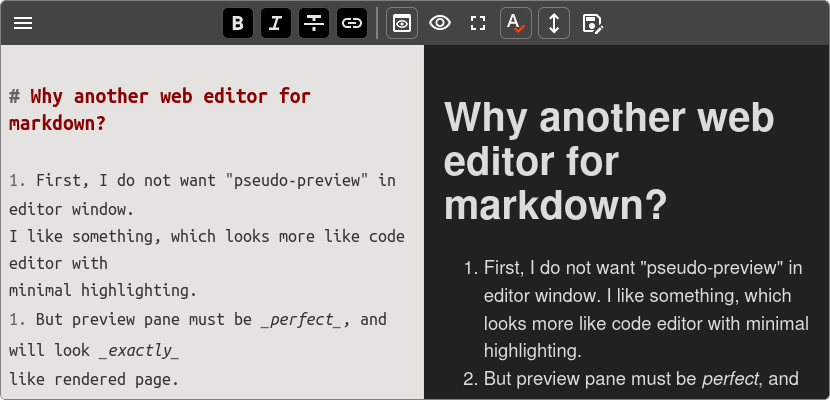
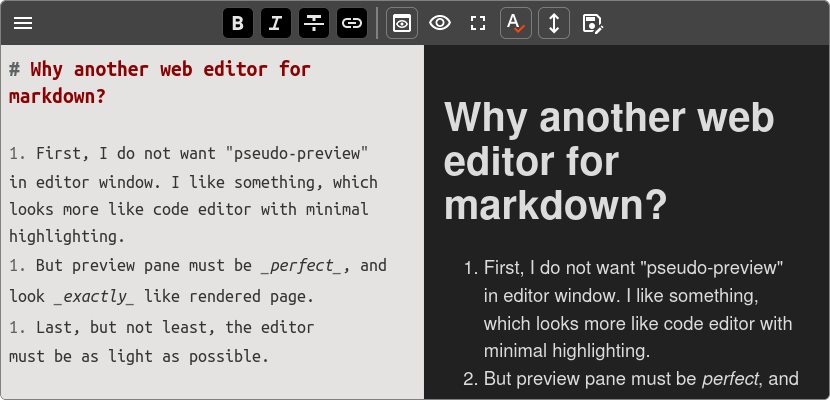
better demo and readme

diff --git a/docs/demo.js b/docs/demo.js
@@ -115,8 +115,6 @@
         customClass=${this.props.modified?"alerted":""}
         />
 
-
-
         </div>
 
          <div class="workArea">
@@ -134,7 +132,7 @@
    <${ae}  
    render=${n} 
    save=${r}
-   content=${'\n# Why another web editor for markdown?\n\n1. First, I do not want "pseudo-preview" in editor window. \nI like something, which looks more like code editor with\nminimal highlighting.\n1. But preview pane must be _perfect_, and will look _exactly_\nlike rendered page.\n1. Last, but not least, the editor must be as light as possible.\n\nThat\'s why.\n\n\nLorem Ipsum\n-----------\n\nLorem ipsum __dolor sit__ amet, consectetur adipiscing elit, sed do eiusmod tempor incididunt ut labore et dolore magna aliqua. Ut enim ad minim veniam, quis nostrud exercitation ullamco laboris nisi ut aliquip ex ea _commodo_ consequat.\n\n> Ut enim ad minim veniam, quis nostrud exercitation\n\nDuis aute irure dolor in reprehenderit in voluptate velit esse cillum dolore eu fugiat nulla pariatur. Excepteur sint occaecat cupidatat non proident, sunt in culpa qui officia [deserunt mollit](https://github.com) anim id est laborum.\n\n---\n'}  
+   content=${'# Why another web editor for markdown?\n\n1. First, I do not want "pseudo-preview"  \nin editor window. I like something, which \nlooks more like code editor with minimal \nhighlighting.\n1. But preview pane must be _perfect_, and \nlook _exactly_ like rendered page.\n1. Last, but not least, the editor \nmust be as light as possible.\n\nThat\'s why.\n\n\nLorem Ipsum\n-----------\n\nLorem ipsum __dolor sit__ amet, consectetur adipiscing elit, sed do eiusmod tempor incididunt ut labore et dolore magna aliqua. Ut enim ad minim veniam, quis nostrud exercitation ullamco laboris nisi ut aliquip ex ea _commodo_ consequat.\n\n> Ut enim ad minim veniam, quis nostrud exercitation\n\nDuis aute irure dolor in reprehenderit in voluptate velit esse cillum dolore eu fugiat nulla pariatur. Excepteur sint occaecat cupidatat non proident, sunt in culpa qui officia [deserunt mollit](https://github.com) anim id est laborum.\n\n---\n'}  
    modified=${e}
    onUpdate=${o}
    menuItems=${qe}/>

diff --git a/docs/index.html b/docs/index.html
@@ -91,18 +91,21 @@ width: calc( 100% + 200px);
 <main class='container'><a href="https://github.com/girobusan/bare-mde">
   <img style="position: absolute; top: 0; right: 0; border: 0;" src="https://github.blog/wp-content/uploads/2008/12/forkme_right_orange_ff7600.png?resize=149%2C149" alt="Fork me on GitHub">
     </a>
+<p>⬆ <a href="https://girobusan.github.io">Girobusan</a></p>
 <h1>🐻 Bare  MDE Demo</h1>
-<p>This is a demo for Bare MDE Preact component.</p>
+<p>Bare MDE is simplistic markdown editor. It has full HTML preview, and markdown syntax highlighting. It developed as Preact component and script, which can be added to any web page.</p>
 <div id="editorTest" style="max-height: 400px"> </div></main>
 <footer id="pageFooter"><small>Powered by <a href='https://github.com/girobusan/imp'>IMP!</a> and <a href='https://matejlatin.github.io/Gutenberg/'>Gutenberg CSS</a></small></footer>
 <script id="pageData" type="text/markdown">&lt;a href="https://github.com/girobusan/bare-mde"&gt;
   &lt;img style="position: absolute; top: 0; right: 0; border: 0;" src="https://github.blog/wp-content/uploads/2008/12/forkme_right_orange_ff7600.png?resize=149%2C149" alt="Fork me on GitHub"&gt;
     &lt;/a&gt;
+		
+:arrow_up: [Girobusan](https://girobusan.github.io)
 
 :bear: Bare  MDE Demo
 ===================
 
-This is a demo for Bare MDE Preact component.
+Bare MDE is simplistic markdown editor. It has full HTML preview, and markdown syntax highlighting. It developed as Preact component and script, which can be added to any web page.
 
 &lt;div id="editorTest" style="max-height: 400px"&gt; &lt;/div&gt;</script>
 </body>

diff --git a/src/demo_html/index.html b/src/demo_html/index.html
@@ -91,18 +91,21 @@ width: calc( 100% + 200px);
 <main class='container'><a href="https://github.com/girobusan/bare-mde">
   <img style="position: absolute; top: 0; right: 0; border: 0;" src="https://github.blog/wp-content/uploads/2008/12/forkme_right_orange_ff7600.png?resize=149%2C149" alt="Fork me on GitHub">
     </a>
+<p>⬆ <a href="https://girobusan.github.io">Girobusan</a></p>
 <h1>🐻 Bare  MDE Demo</h1>
-<p>This is a demo for Bare MDE Preact component.</p>
+<p>Bare MDE is simplistic markdown editor. It has full HTML preview, and markdown syntax highlighting. It developed as Preact component and script, which can be added to any web page.</p>
 <div id="editorTest" style="max-height: 400px"> </div></main>
 <footer id="pageFooter"><small>Powered by <a href='https://github.com/girobusan/imp'>IMP!</a> and <a href='https://matejlatin.github.io/Gutenberg/'>Gutenberg CSS</a></small></footer>
 <script id="pageData" type="text/markdown">&lt;a href="https://github.com/girobusan/bare-mde"&gt;
   &lt;img style="position: absolute; top: 0; right: 0; border: 0;" src="https://github.blog/wp-content/uploads/2008/12/forkme_right_orange_ff7600.png?resize=149%2C149" alt="Fork me on GitHub"&gt;
     &lt;/a&gt;
+		
+:arrow_up: [Girobusan](https://girobusan.github.io)
 
 :bear: Bare  MDE Demo
 ===================
 
-This is a demo for Bare MDE Preact component.
+Bare MDE is simplistic markdown editor. It has full HTML preview, and markdown syntax highlighting. It developed as Preact component and script, which can be added to any web page.
 
 &lt;div id="editorTest" style="max-height: 400px"&gt; &lt;/div&gt;</script>
 </body>

diff --git a/src/components/BareMDE/index.js b/src/components/BareMDE/index.js
@@ -233,7 +233,6 @@ export default class BareMDE extends Component{
        return;
      }
      this.setState(ns);
-     // v && this.doPreview(true);
   }
   toggleFullPreview(){
     
@@ -242,7 +241,6 @@ export default class BareMDE extends Component{
     } 
      const v = !this.state.fullPreview;
      this.setState({fullPreview: v}); 
-     // this.doPreview();
   }
   toggleSyncScroll(){
      
@@ -268,7 +266,7 @@ export default class BareMDE extends Component{
        if(!this.previewFrame.current.contentWindow){ return } 
       const frameDoc = this.previewFrame.current.contentWindow.document;
       const content =  this.props.render(this.jar.toString());
-      // frameDoc.documentElement.innerHTML = content;
+      // frameDoc.documentElement.outerHTML = content;
       frameDoc.open();
       frameDoc.write(content)
       frameDoc.close();
@@ -282,7 +280,7 @@ export default class BareMDE extends Component{
           i.src = this.props.imageRewriter(i.getAttribute( "src" ));
         })
       }
-      const dHeight = Math.max(
+      const dHeight = Math.max( //need more tests in Chrome
         // frameDoc.body.scrollHeight,
         frameDoc.body.offsetHeight,
         frameDoc.documentElement.scrollHeight,
@@ -412,8 +410,6 @@ export default class BareMDE extends Component{
         onClick=${this.saveFile}
         customClass=${ this.props.modified ? "alerted" : "" }
         />
-
-
 
         </div>
 

diff --git a/src/demo.js b/src/demo.js
@@ -11,15 +11,16 @@ const menu = [
    { "label": "test menu items" , "handler": ()=>alert("Menu item clicked") },
    { "label": "test2" , "handler": ()=>alert("Menu item2 clicked") },
    ]
-const testString = `
-# Why another web editor for markdown?
+const testString = `# Why another web editor for markdown?
 
-1. First, I do not want "pseudo-preview" in editor window. 
-I like something, which looks more like code editor with
-minimal highlighting.
-1. But preview pane must be _perfect_, and will look _exactly_
-like rendered page.
-1. Last, but not least, the editor must be as light as possible.
+1. First, I do not want "pseudo-preview"  
+in editor window. I like something, which 
+looks more like code editor with minimal 
+highlighting.
+1. But preview pane must be _perfect_, and 
+look _exactly_ like rendered page.
+1. Last, but not least, the editor 
+must be as light as possible.
 
 That's why.
 

diff --git a/docs/baremde_web.js b/docs/baremde_web.js
@@ -115,8 +115,6 @@
         customClass=${this.props.modified?"alerted":""}
         />
 
-
-
         </div>
 
          <div class="workArea">

diff --git a/README.md b/README.md
@@ -1,14 +1,16 @@
 # Bare MDE :bear:
 
-Basic markdown editor, based on CodeJar, packed as Preact component. Made for [My Markdown Site](https://github.com/girobusan/mmds) project.
+Basic markdown editor, based on CodeJar, packed as Preact component. Made for 
+my pet projects.
 
 Probably, not the embeddable markdown editor you're looking for.
 
-- As minimal, as possible
+- As minimal, as possible (less than 60 Kb when built)
 - Browser native spellcheck
-- Fully isolated preview panel (iframe)
-- Split preview, full preview
+- Fully isolated preview panel, which leads to perfect one-to-one preview (iframe)
+- Split preview, full width preview
 - Sync preview scroll (more or less accurate)
+- Basic formatting buttons
 - Passed by upper-level component:
    * Markdown render function 
    * Save function
@@ -16,5 +18,5 @@ Probably, not the embeddable markdown editor you're looking for.
 
 ![screenshot](docs/screen_00_rounded.png)
 
-This repo is a mess. If you think, you would use this component, file an issue. 
-It will motivate me to clean it up...and maybe even publish to npm. 
+This repo is a bit messy. If you think, you would use this component, 
+file me an issue. 
